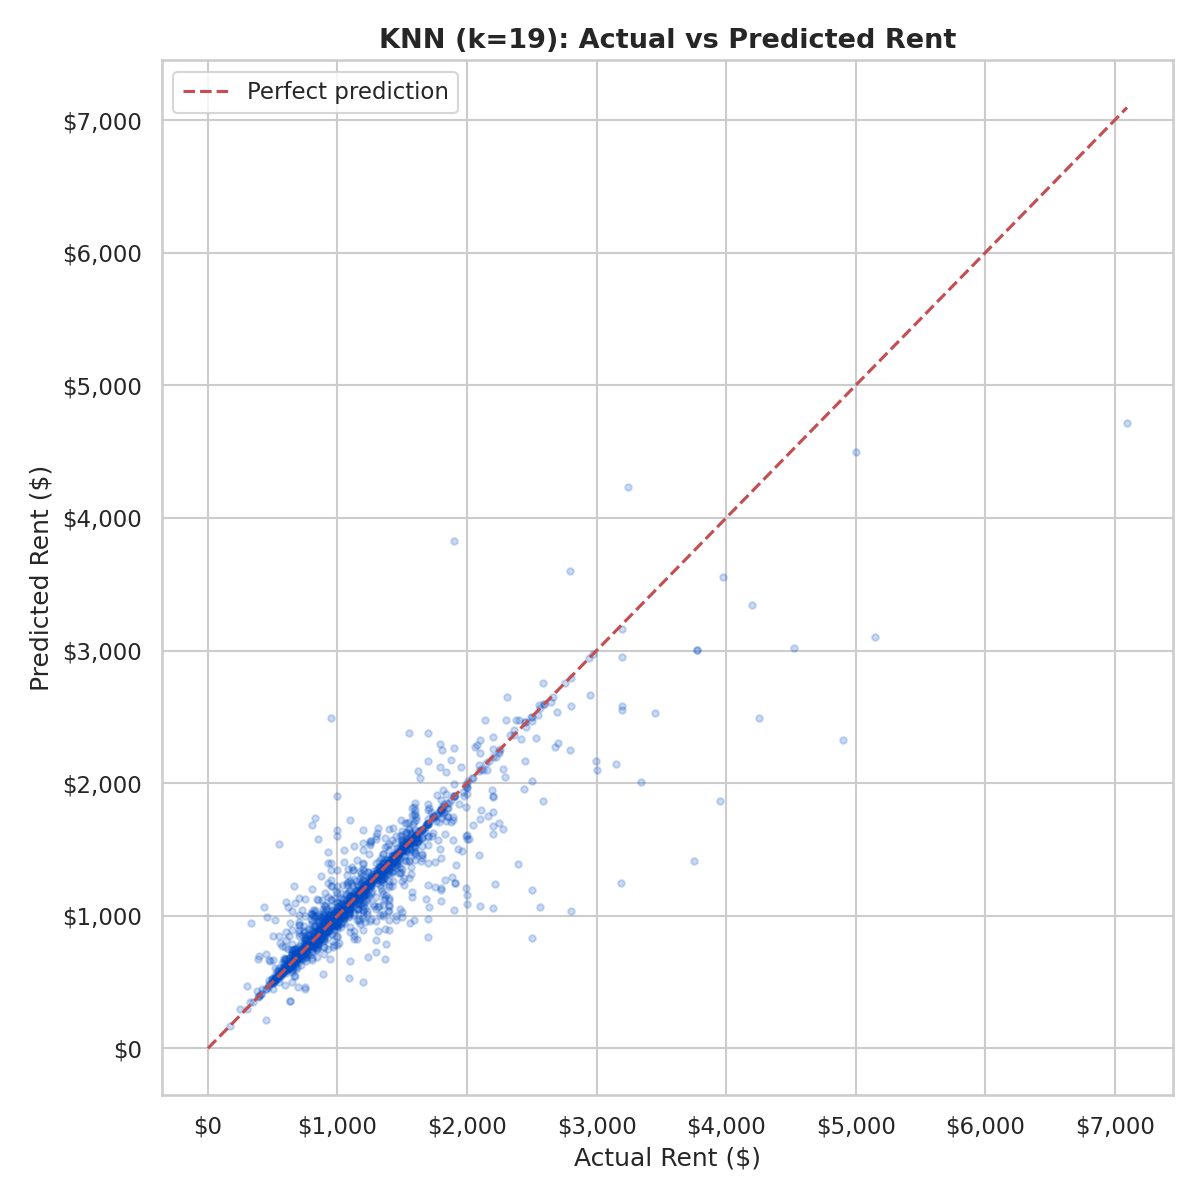
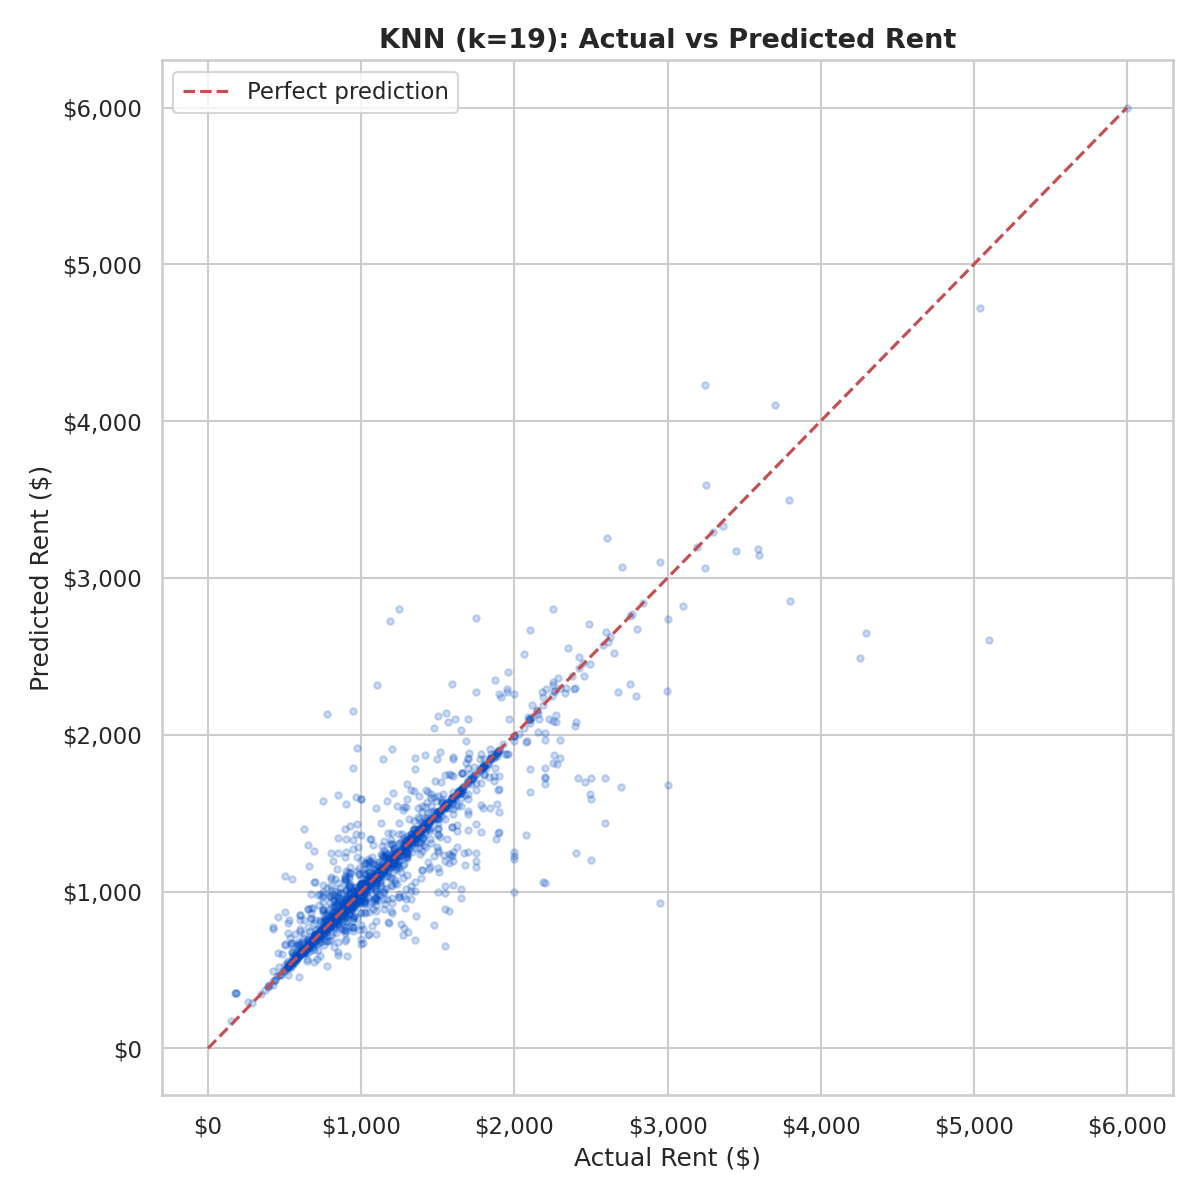
Co-authored-by: [email redacted] <[email redacted]>

diff --git a/predict.py b/predict.py
@@ -1,0 +1,200 @@
+import pandas as pd
+import numpy as np
+import sqlite3
+import joblib
+import json
+import re
+from difflib import get_close_matches
+
+DB_PATH = "housing.db"
+#loading saved models
+try:
+    lr_model    = joblib.load("models/lr_model.joblib")
+    lr_scaler   = joblib.load("models/lr_scaler.joblib")
+    knn_model   = joblib.load("models/knn_model.joblib")
+    knn_scaler  = joblib.load("models/knn_scaler.joblib")
+    with open("models/feature_cols.json") as f:
+        feature_cols = json.load(f)
+except FileNotFoundError:
+    print("ERROR: Model files not found.")
+    print("Please run linear_regression.py and knn_regression.py first.")
+    exit(1)
+
+# Load cities and region averages from DB to print out 
+conn = sqlite3.connect(DB_PATH)
+cities  = pd.read_sql("SELECT * FROM cities", conn)
+merged  = pd.read_sql("SELECT region, state, AVG(price) as avg_rent FROM merged GROUP BY region, state", conn)
+conn.close()
+
+# Valid property types
+type_cols   = [c for c in feature_cols if c.startswith("type_")]
+valid_types = [c.replace("type_", "") for c in type_cols]
+
+ALL_TYPES = ["apartment", "house", "condo", "townhouse", "duplex",
+             "flat", "in-law", "loft", "cottage/cabin", "manufactured"]
+
+
+# word normalizer
+def normalize(text: str) -> str:
+    text = text.lower().replace(".", "").strip()
+    text = re.sub(r"\b(city|metro|area)\b", "", text)
+    return text.strip()
+
+# to match a city that doesn't have an exact match
+def find_city(user_city: str, user_state: str) -> pd.Series | None:
+    """Fuzzy-match user input to a region in our cities table."""
+    state_cities = cities[cities["state"] == user_state.upper()]
+    if state_cities.empty:
+        return None
+
+    candidates = state_cities["region"].tolist()
+    key = normalize(user_city)
+
+    hits = get_close_matches(key, [normalize(c) for c in candidates], n=1, cutoff=0.5)
+    if hits:
+        norm_to_orig = {normalize(c): c for c in candidates}
+        matched = norm_to_orig.get(hits[0])
+        if matched:
+            return state_cities[state_cities["region"] == matched].iloc[0]
+
+    for c in candidates:
+        if key in normalize(c) or normalize(c) in key:
+            return state_cities[state_cities["region"] == c].iloc[0]
+
+    return None
+
+# fetching average rent 
+def get_avg_rent(region: str, state: str) -> float | None:
+    row = merged[(merged["region"] == region) & (merged["state"] == state)]
+    return round(row["avg_rent"].values[0], 2) if not row.empty else None
+
+def prompt(label: str, cast=str, valid=None, optional=False) -> any:
+    """Ask the user for input, re-prompt on bad input."""
+    while True:
+        raw = input(f"  {label}: ").strip()
+        if not raw and optional:
+            return None
+        try:
+            val = cast(raw)
+            if valid and val not in valid:
+                print(f"    Please enter one of: {', '.join(str(v) for v in valid)}")
+                continue
+            return val
+        except (ValueError, TypeError):
+            print(f"    Invalid input, please try again.")
+
+def build_feature_row(sqfeet, beds, baths, prop_type,
+                      median_income, unemployment_rate,
+                      bachelors_rate, median_rent_census) -> np.ndarray:
+    """Build a single feature vector matching the training columns."""
+    row = {col: 0 for col in feature_cols}
+    row["sqfeet"]             = sqfeet
+    row["beds"]               = beds
+    row["baths"]              = baths
+    row["median_income"]      = median_income
+    row["unemployment_rate"]  = unemployment_rate
+    row["bachelors_rate"]     = bachelors_rate
+    row["median_rent_census"] = median_rent_census
+
+    # Set the type dummy if it exists as a column =
+    type_col = f"type_{prop_type}"
+    if type_col in row:
+        row[type_col] = 1
+
+    return np.array([row[c] for c in feature_cols]).reshape(1, -1)
+
+
+print("\n" + "═" * 50)
+print("       Rental Price Predictor")
+print("═" * 50)
+
+
+# location
+print("── Location ─────────────────────────────────")
+while True:
+    city  = input("  City (e.g. austin, los angeles): ").strip()
+    state = input("  State abbreviation (e.g. TX, CA):  ").strip().upper()
+    #matching city 
+    city_row = find_city(city, state)
+    if city_row is not None:
+        print(f"\n  ✓ Matched to: {city_row['region'].title()}, {state}")
+        break
+    print(f"\n  ✗ Could not find '{city}' in {state}.")
+    print("    Make sure the city is in the Craigslist dataset and try again.\n")
+
+region = city_row["region"]
+avg_rent = get_avg_rent(region, state)
+
+# property information
+print("\n── Property Details ─────────────────────────")
+sqfeet    = prompt("Square footage", cast=float)
+beds      = prompt("Bedrooms",       cast=int)
+baths     = prompt("Bathrooms",      cast=float)
+
+print(f"  Property type options: {', '.join(ALL_TYPES)}")
+prop_type = prompt("Property type", cast=str)
+prop_type = prop_type.lower().strip()
+
+# listing price (optional)  for compariosnn purpo
+print("\n── Comparison (optional) ────────────────────")
+listed_price_raw = input("  Listed price (press Enter to skip): ").strip()
+listed_price = float(listed_price_raw) if listed_price_raw else None
+
+
+#building feature row and actually predicting
+X_input = build_feature_row(
+    sqfeet         = sqfeet,
+    beds           = beds,
+    baths          = baths,
+    prop_type      = prop_type,
+    median_income      = city_row["median_income"],
+    unemployment_rate  = city_row["unemployment_rate"] if "unemployment_rate" in city_row else 0,
+    bachelors_rate     = city_row["bachelors_rate"]    if "bachelors_rate"    in city_row else 0,
+    median_rent_census = city_row["median_rent_census"],
+)
+
+lr_pred  = np.exp(lr_model.predict(lr_scaler.transform(X_input))[0])
+knn_pred = np.exp(knn_model.predict(knn_scaler.transform(X_input))[0])
+
+
+# displaying result
+print("\n" + "═" * 50)
+print("  Results")
+print("═" * 50)
+print(f"  City:          {region.title()}, {state}")
+print(f"  Property:      {beds}bd / {baths}ba  |  {sqfeet:.0f} sqft  |  {prop_type}")
+print()
+print(f"  Linear Regression prediction:  ${lr_pred:>8,.2f}")
+print(f"  KNN prediction:                ${knn_pred:>8,.2f}")
+if avg_rent:
+    print(f"  Avg listed rent in this city:  ${avg_rent:>8,.2f}")
+print()
+
+if listed_price:
+    lr_diff   = listed_price - lr_pred
+    knn_diff  = listed_price - knn_pred
+    lr_pct    = lr_diff  / lr_pred  * 100
+    knn_pct   = knn_diff / knn_pred * 100
+
+    print(f"  Your listed price:  ${listed_price:,.2f}")
+    print()
+
+    def diff_line(label, diff, pct):
+        direction = "OVER" if diff > 0 else "UNDER"
+        sign      = "+" if diff > 0 else ""
+        return f"  vs {label:<25} {sign}${abs(diff):,.2f}  ({sign}{pct:.1f}%)  [{direction}]"
+
+    print(diff_line("LR prediction:",  lr_diff,  lr_pct))
+    print(diff_line("KNN prediction:", knn_diff, knn_pct))
+    print()
+
+    both_over  = lr_diff > 0 and knn_diff > 0
+    both_under = lr_diff < 0 and knn_diff < 0
+    if both_over:
+        print("  Verdict: Both models suggest this listing is OVERPRICED.")
+    elif both_under:
+        print("  Verdict: Both models suggest this listing is UNDERPRICED (a potential deal).")
+    else:
+        print("  Verdict: Models disagree — the listing is near the predicted fair price.")
+
+print("═" * 50 + "\n")

diff --git a/linear_regression.py b/linear_regression.py
@@ -157,3 +157,13 @@ print("\n── Sample predictions ───────────────
 print(results_df[["region", "state", "price", "predicted_price_lr",
                    "pct_diff_lr"]].head(10).to_string(index=False))
 print("\nDone")
+
+# for prediction
+import joblib, json
+os.makedirs("models", exist_ok=True)
+joblib.dump(model,  "models/lr_model.joblib")
+joblib.dump(scaler, "models/lr_scaler.joblib")
+with open("models/feature_cols.json", "w") as f:
+    json.dump(X.columns.tolist(), f)
+print("\n✓ Saved: models/lr_model.joblib, models/lr_scaler.joblib, models/feature_cols.json")
+print("\nDone!")

diff --git a/knn_regression.py b/knn_regression.py
@@ -173,3 +173,10 @@ print(test_rows[["region", "state", "price", "predicted_price_knn",
                   "pct_diff_knn"]].head(10).to_string(index=False))
 print("\nDone")
 
+# for prediction
+import joblib
+os.makedirs("models", exist_ok=True)
+joblib.dump(knn_model, "models/knn_model.joblib")
+joblib.dump(scaler,    "models/knn_scaler.joblib")
+print("\n✓ Saved: models/knn_model.joblib, models/knn_scaler.joblib")
+print("\nDone!")